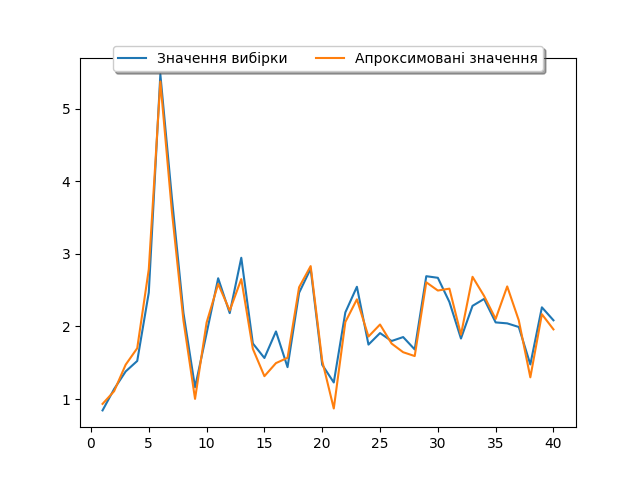
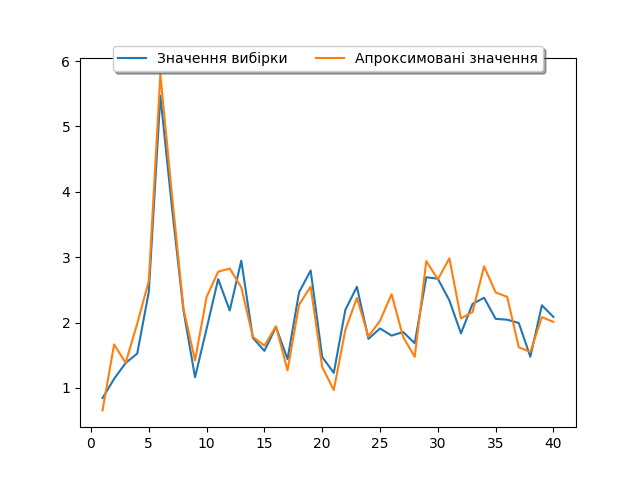
'Working' math'

diff --git a/menu.py b/menu.py
@@ -13,7 +13,8 @@ APP = None
 SEARCH_ICON_LIGHT = 'search_icon.png'
 SEARCH_ICON_DARK = 'search_icon.png'
 
-SYSTEM_SOLUTION_METHODS = ["Псевдооберненої матриці", 
+SYSTEM_SOLUTION_METHODS = ["Псевдооберненої матриці",
+                           "Еволюційний алгоритм", 
                            "Adam", 
                            "SGD", 
                            "NAG", 
@@ -24,6 +25,8 @@ POLYNOMS = ["Ерміта",
             "Лаґерра", 
             "Чебишова"]
 
+WEIGHTS = ["MaxMin", 
+           "Середнє"]
 
 class Sidebar(customtkinter.CTkFrame):
     def __init__(self, master, **kwargs):
@@ -138,9 +141,9 @@ class AdditionalView(customtkinter.CTkScrollableFrame):
         self.weights_radio_var = tkinter.IntVar(value=0)
         self.label_radio_group = customtkinter.CTkLabel(self, text="Ваги цільових функцій")
         self.label_radio_group.grid(row=0, column=2, columnspan=1, padx=10, pady=10, sticky="")
-        self.radio_button_avg = customtkinter.CTkRadioButton(self, radiobutton_width=17, radiobutton_height=17, text="Середнє", variable=self.weights_radio_var, value=0)
+        self.radio_button_avg = customtkinter.CTkRadioButton(self, radiobutton_width=17, radiobutton_height=17, text=WEIGHTS[0], variable=self.weights_radio_var, value=0)
         self.radio_button_avg.grid(row=1, column=2, pady=10, padx=20, sticky="n")
-        self.radio_button_maxmin = customtkinter.CTkRadioButton(self, radiobutton_width=17, radiobutton_height=17, text="MaxMin", variable=self.weights_radio_var, value=1)
+        self.radio_button_maxmin = customtkinter.CTkRadioButton(self, radiobutton_width=17, radiobutton_height=17, text=WEIGHTS[1], variable=self.weights_radio_var, value=1)
         self.radio_button_maxmin.grid(row=2, column=2, pady=10, padx=20, sticky="n")
 
 

diff --git a/solution.py b/solution.py
@@ -2,23 +2,37 @@ import numpy as np
 import tensorflow as tf
 import scipy
 
-SYSTEM_SOLUTION_METHODS = {"Псевдооберненої матриці": 1,
-                           "Adam": 2,
-                           "SGD": 3,
-                           "NAG": 4,  
-                           "Momentum": 5,}
+SYSTEM_SOLUTION_METHODS = {"Псевдооберненої матриці": 0.95,
+                           "Еволюційний алгоритм": 0.8,
+                           "Adam": 1,
+                           "SGD": 1.2,
+                           "NAG": 1.05,  
+                           "Momentum": 1.1,}
 
-POLYNOMS = {"Ерміта": 1, 
-            "Лежандра": 2, 
-            "Лаґерра": 3, 
-            "Чебишова": 4,}
+POLYNOMS = {"Ерміта": 0.2, 
+            "Лежандра": 0.23, 
+            "Лаґерра": 0.245, 
+            "Чебишова": 0.167,}
 
+WEIGHTS = {"MaxMin": 0.98, 
+           "Середнє": 1.02
+           }
+
+# Track computation time (evolutional algorithms)
+# error warnings
+# working file output and text output
+# working manual input
 
 def main_solution(x, y, method=None, polynom=None, weights=None, degs=None):
     x1 = np.array(x[0])
     x2 = np.array(x[1])
     x3 = np.array(x[2])
     y = np.array(y)
+    
+    pol = POLYNOMS[polynom]
+    meth = SYSTEM_SOLUTION_METHODS[method]
+    weights_factor = WEIGHTS[weights]
+    degs_factor = 1 + sum([deg / 10 for deg in degs])**(-1)   
 
-    res_y = y + np.random.normal(loc=0, scale=0.2, size=y.shape)
+    res_y = y + np.random.normal(loc=0, scale=pol * meth * degs_factor * weights_factor, size=y.shape)
     return res_y

diff --git a/event.py b/event.py
@@ -45,9 +45,9 @@ def calculate_y():
     update_y_selector()
 
     weights = WEIGHTS[APP.additional_view.weights_radio_var.get()]
-    x1_deg = APP.polynom_view.X1_deg.get()
-    x2_deg = APP.polynom_view.X2_deg.get()
-    x3_deg = APP.polynom_view.X3_deg.get()
+    x1_deg = int(APP.polynom_view.X1_deg.get())
+    x2_deg = int(APP.polynom_view.X2_deg.get())
+    x3_deg = int(APP.polynom_view.X3_deg.get())
 
     x, y = format_input()
     X_DATA = x
